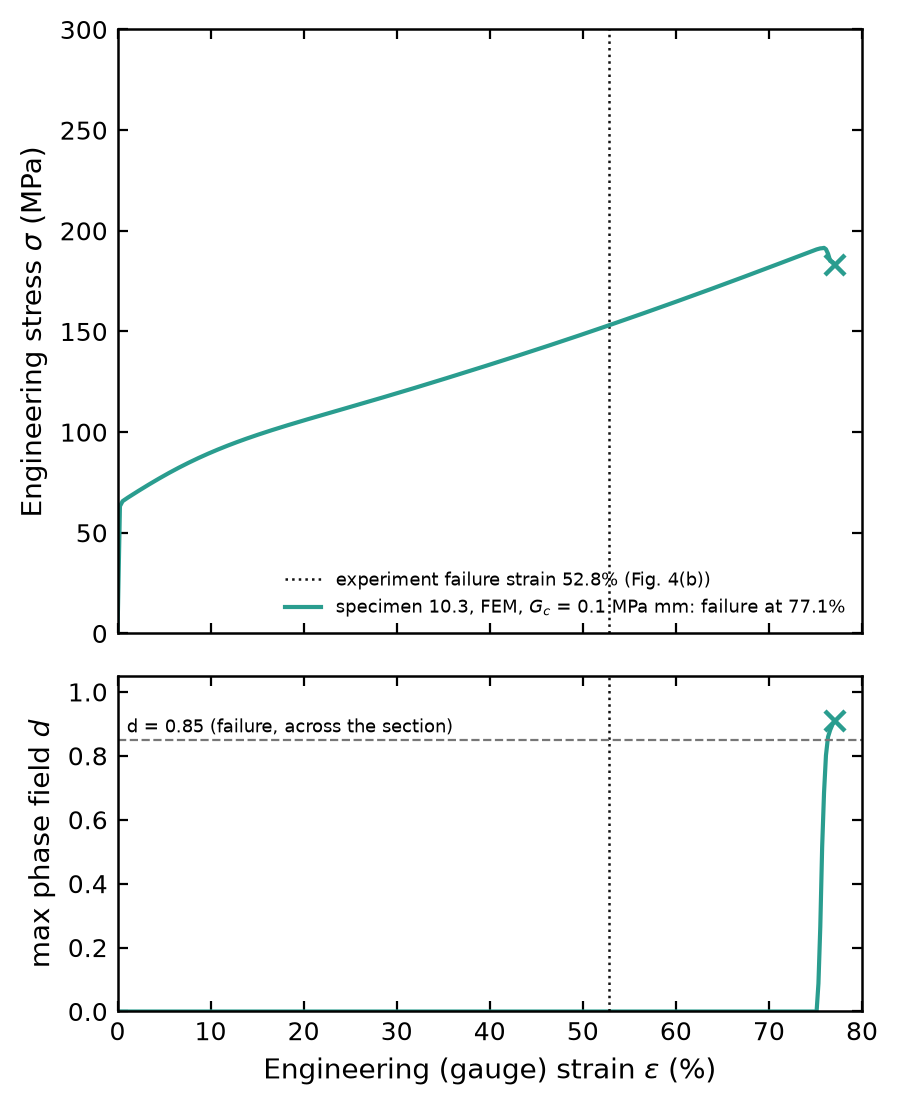
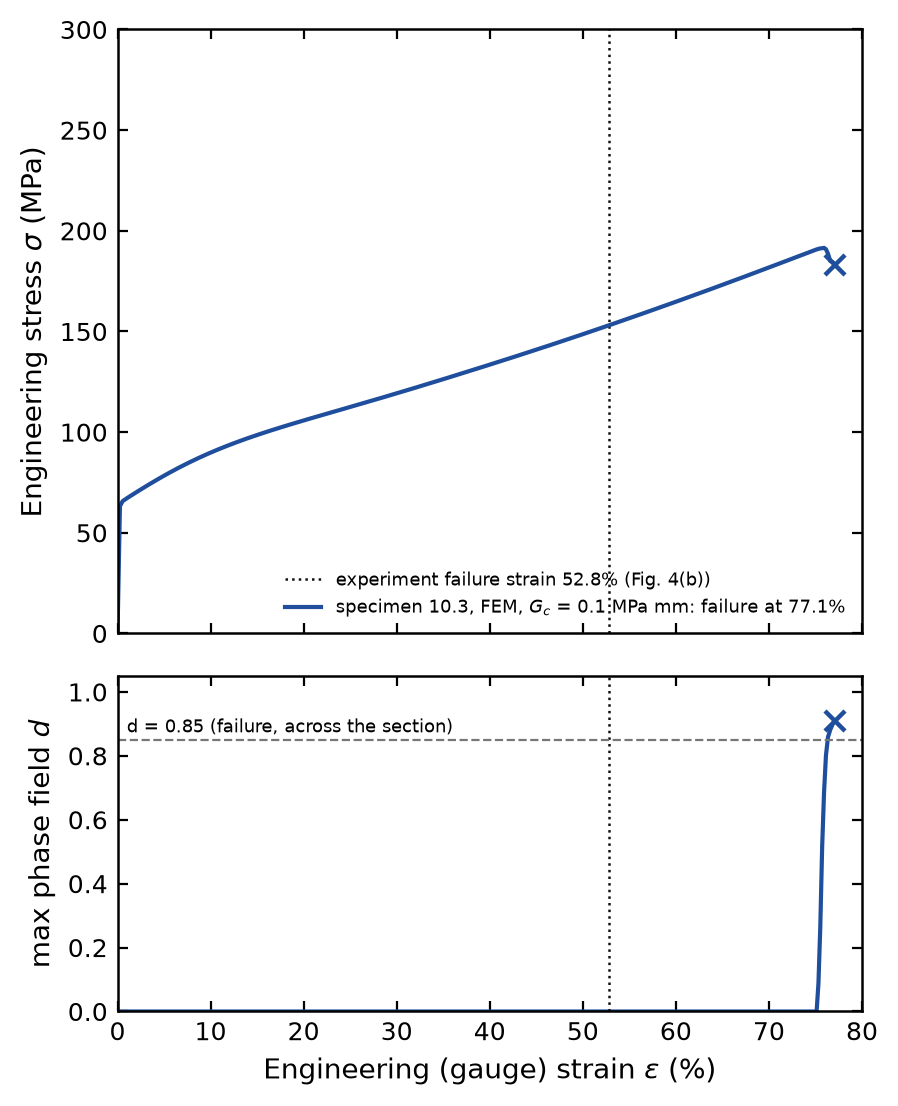
Ni last stage: Fig. 5 panel color scales; per-specimen figure generator (curve + field on the panel's own scale); parity axes to 0.9; group 10 figures

diff --git a/scripts/ni_final_specimen_figures.py b/scripts/ni_final_specimen_figures.py
@@ -1,0 +1,132 @@
+#!/usr/bin/env python3
+"""Per-specimen figures of a last-stage route: curve + max d, and E_xx at failure with the crack line.
+
+Deck-driven (PINNACLE .i syntax):
+
+  [Figures]
+    root     = ../../../results/ni_study/final/fem     # <specimen>/summary.json per case (lower-case names)
+    out_dir  = ../../../figures/ni/final
+    prefix   = fem
+    label    = 'FEM'
+    parity   = ../../../data/digitized/ni_fig4b_failure_strain_parity.csv   # experiment column only
+    scales   = ../../../data/digitized/ni_fig5_panel_scales.csv
+    panels   = ../../../data/digitized/ni_fig5_panels
+    cp_only  = ../../../results/ni_study/cal_h020/gn2/base/results.csv
+    specimens = all                                      # or a list: '10.1 10.3'
+    dpi      = 200
+  []
+
+For every finished specimen it writes a curve deck and a shape deck under <out_dir>/decks/ and
+runs scripts/ni_pfd_curve_figures.py and scripts/ni_pfd_shape_figures.py on them:
+<out_dir>/<prefix>_curve_<spec>.png (stress-strain and max d, the experiment's failure strain
+of that specimen as the dotted line; the Fig. 3 trace only for L.1) and
+<out_dir>/<prefix>_shape_<spec>.png (E_xx on the experiment panel's own color scale, the d =
+0.85 outline and the crack line, against the DIC panel). Experiment data only.
+
+Usage: ni_final_specimen_figures.py FIGURES.i
+"""
+from __future__ import annotations
+
+import csv
+import subprocess
+import sys
+from pathlib import Path
+
+sys.path.insert(0, str(Path(__file__).resolve().parent))
+from ni_final_figures import read_deck as _read  # noqa: E402
+from report_figures import _resolve, _str  # noqa: E402
+
+HERE = Path(__file__).resolve().parent
+
+
+def read_deck(path: Path) -> dict:
+    sys.path.insert(0, "/mnt/extended/projects/pinnacle/src")
+    from pinnacle.io.i_parser import InputParser
+    from pinnacle.io.translator import Translator
+
+    cfg = Translator().translate(InputParser().parse(path.read_text()))
+    if "figures" not in cfg:
+        raise SystemExit(f"{path}: missing [Figures]")
+    return cfg["figures"]
+
+
+def _rows(path: Path) -> list[dict]:
+    return list(csv.DictReader(ln for ln in path.open() if not ln.startswith("#")))
+
+
+def main(argv):
+    if len(argv) != 2:
+        print(__doc__)
+        return 2
+    deck = Path(argv[1]).resolve()
+    f = read_deck(deck)
+    root = _resolve(_str(f["root"]), deck)
+    out_dir = _resolve(_str(f["out_dir"]), deck)
+    (out_dir / "decks").mkdir(parents=True, exist_ok=True)
+    prefix, label = _str(f.get("prefix", "fem")), _str(f.get("label", "FEM"))
+    exp = {r["specimen"]: float(r["exp_failure_strain"]) for r in _rows(_resolve(_str(f["parity"]), deck))}
+    scales = {r["specimen"]: (float(r["exx_min"]), float(r["exx_max"])) for r in _rows(_resolve(_str(f["scales"]), deck))}
+    panels = _resolve(_str(f["panels"]), deck)
+    want = _str(f.get("specimens", "all"))
+    specs = sorted(exp) if want == "all" else want.split()
+    done = 0
+    for spec in specs:
+        case = root / spec.lower()
+        if not (case / "summary.json").exists():
+            continue
+        lo, hi = scales.get(spec, (0.23, 0.98))
+        hide = "false" if spec == "L.1" else "true"
+        cdeck = out_dir / "decks" / f"{prefix}_curve_{spec}.i"
+        cdeck.write_text(f"""# {label} route, specimen {spec} (written by scripts/ni_final_specimen_figures.py).
+[Figures]
+  out            = ../{prefix}_curve_{spec}.png
+  markers        = {_resolve(_str(f.get('markers', '../../../data/digitized/ni_fig3_experiment_markers.csv')), deck)}
+  experiment     = {_resolve(_str(f.get('experiment', '../../../data/digitized/ni_fig3_specimenL_calibration.csv')), deck)}
+  cp_only        = {_resolve(_str(f['cp_only']), deck)}
+  failure_target = {exp[spec]}
+  hide_experiment = {hide}
+  damage         = true
+  strain_max     = 80
+  stress_max     = 300
+  stress_tick    = 50
+  dpi            = {int(f.get('dpi', 200))}
+[]
+[Runs]
+  [./run]
+    dir   = {case}
+    label = 'specimen {spec}, {label}'
+    color = '#1f4e9c'
+  []
+[]
+""")
+        sdeck = out_dir / "decks" / f"{prefix}_shape_{spec}.i"
+        sdeck.write_text(f"""# {label} route, specimen {spec} (written by scripts/ni_final_specimen_figures.py).
+[Figures]
+  out         = ../{prefix}_shape_{spec}.png
+  panel       = {panels / (spec + '_exp.png')}
+  panel_label = '{spec}: experiment, DIC axial strain at the onset of failure (Rezwan 2026, Fig. 5)'
+  exx_range   = '{lo} {hi}'
+  x_range     = '5.0 20.4'
+  crack       = 0.85
+  ridge       = true
+  ridge_x     = '8.7 16.7'
+  color       = exx
+  dpi         = {int(f.get('dpi', 200))}
+[]
+[Runs]
+  [./run]
+    dir   = {case}
+    label = 'specimen {spec}, {label}'
+  []
+[]
+""")
+        for script, d in (("ni_pfd_curve_figures.py", cdeck), ("ni_pfd_shape_figures.py", sdeck)):
+            subprocess.run([sys.executable, str(HERE / script), str(d)], check=True, stdout=subprocess.DEVNULL)
+        done += 1
+        print("drew", spec)
+    print(f"{done} specimens drawn under {out_dir}")
+    return 0
+
+
+if __name__ == "__main__":
+    sys.exit(main(sys.argv))

diff --git a/scripts/ni_specimen.py b/scripts/ni_specimen.py
@@ -80,6 +80,13 @@ def _resolve(p: str, deck: Path) -> Path:
     return q if q.is_absolute() else (deck.parent / q).resolve()
 
 
+def _str(v) -> str:
+    """A deck value as text ('' and [] both mean empty)."""
+    if isinstance(v, (list, tuple)):
+        return " ".join(str(x) for x in v).strip()
+    return str(v).strip().strip("'\"")
+
+
 def _num(v) -> str:
     return f"{float(v):.12g}"
 
@@ -134,7 +141,10 @@ def stage_deck(sp: dict, deck: Path) -> Path:
             "    precision        = float64", "    hidden_layers    = 3", "    neurons          = 64", "    activation       = tanh",
             "    fourier_features = false", "    epochs_initial   = 5", "    epochs_per_step  = 4", "    lr               = 1",
             "    optimizer        = lbfgs", f"    residual_target  = {_num(sp.get('predictor_target', 0.05))}", "    reset_each_step  = false",
-            "    seed             = 0", f"    node_features    = '{sp.get('predictor_features', 'orientation grain_boundary')}'", "  []", "[]", ""])
+            "    seed             = 0",
+            *([f"    node_features    = '{_str(sp.get('predictor_features', 'orientation grain_boundary'))}'"]
+              if _str(sp.get("predictor_features", "orientation grain_boundary")) else []),   # none for a single crystal
+            "  []", "[]", ""])
     else:
         raise SystemExit(f"predictor = {pred}: use none, linear or fem_solver_grain")
     if is_pfd(sp):

diff --git a/scripts/ni_final_figures.py b/scripts/ni_final_figures.py
@@ -104,7 +104,7 @@ def main(argv):
     for j, (name, r) in enumerate(routes.items()):
         pred = predicted(_resolve(_str(r["root"]), deck))
         ax, al = axes[0, j], axl[0, j]
-        lim = (0.3, 0.7)
+        lim = (0.3, 0.9)
         ax.plot(lim, lim, "-", color="#111111", lw=0.9)
         ax.fill_between(lim, [0.9 * x for x in lim], [1.1 * x for x in lim], color="#dddddd", lw=0, label=r"$\pm$10%")
         al.plot([0, 1], [0, 1], "-", color="#111111", lw=0.9)
